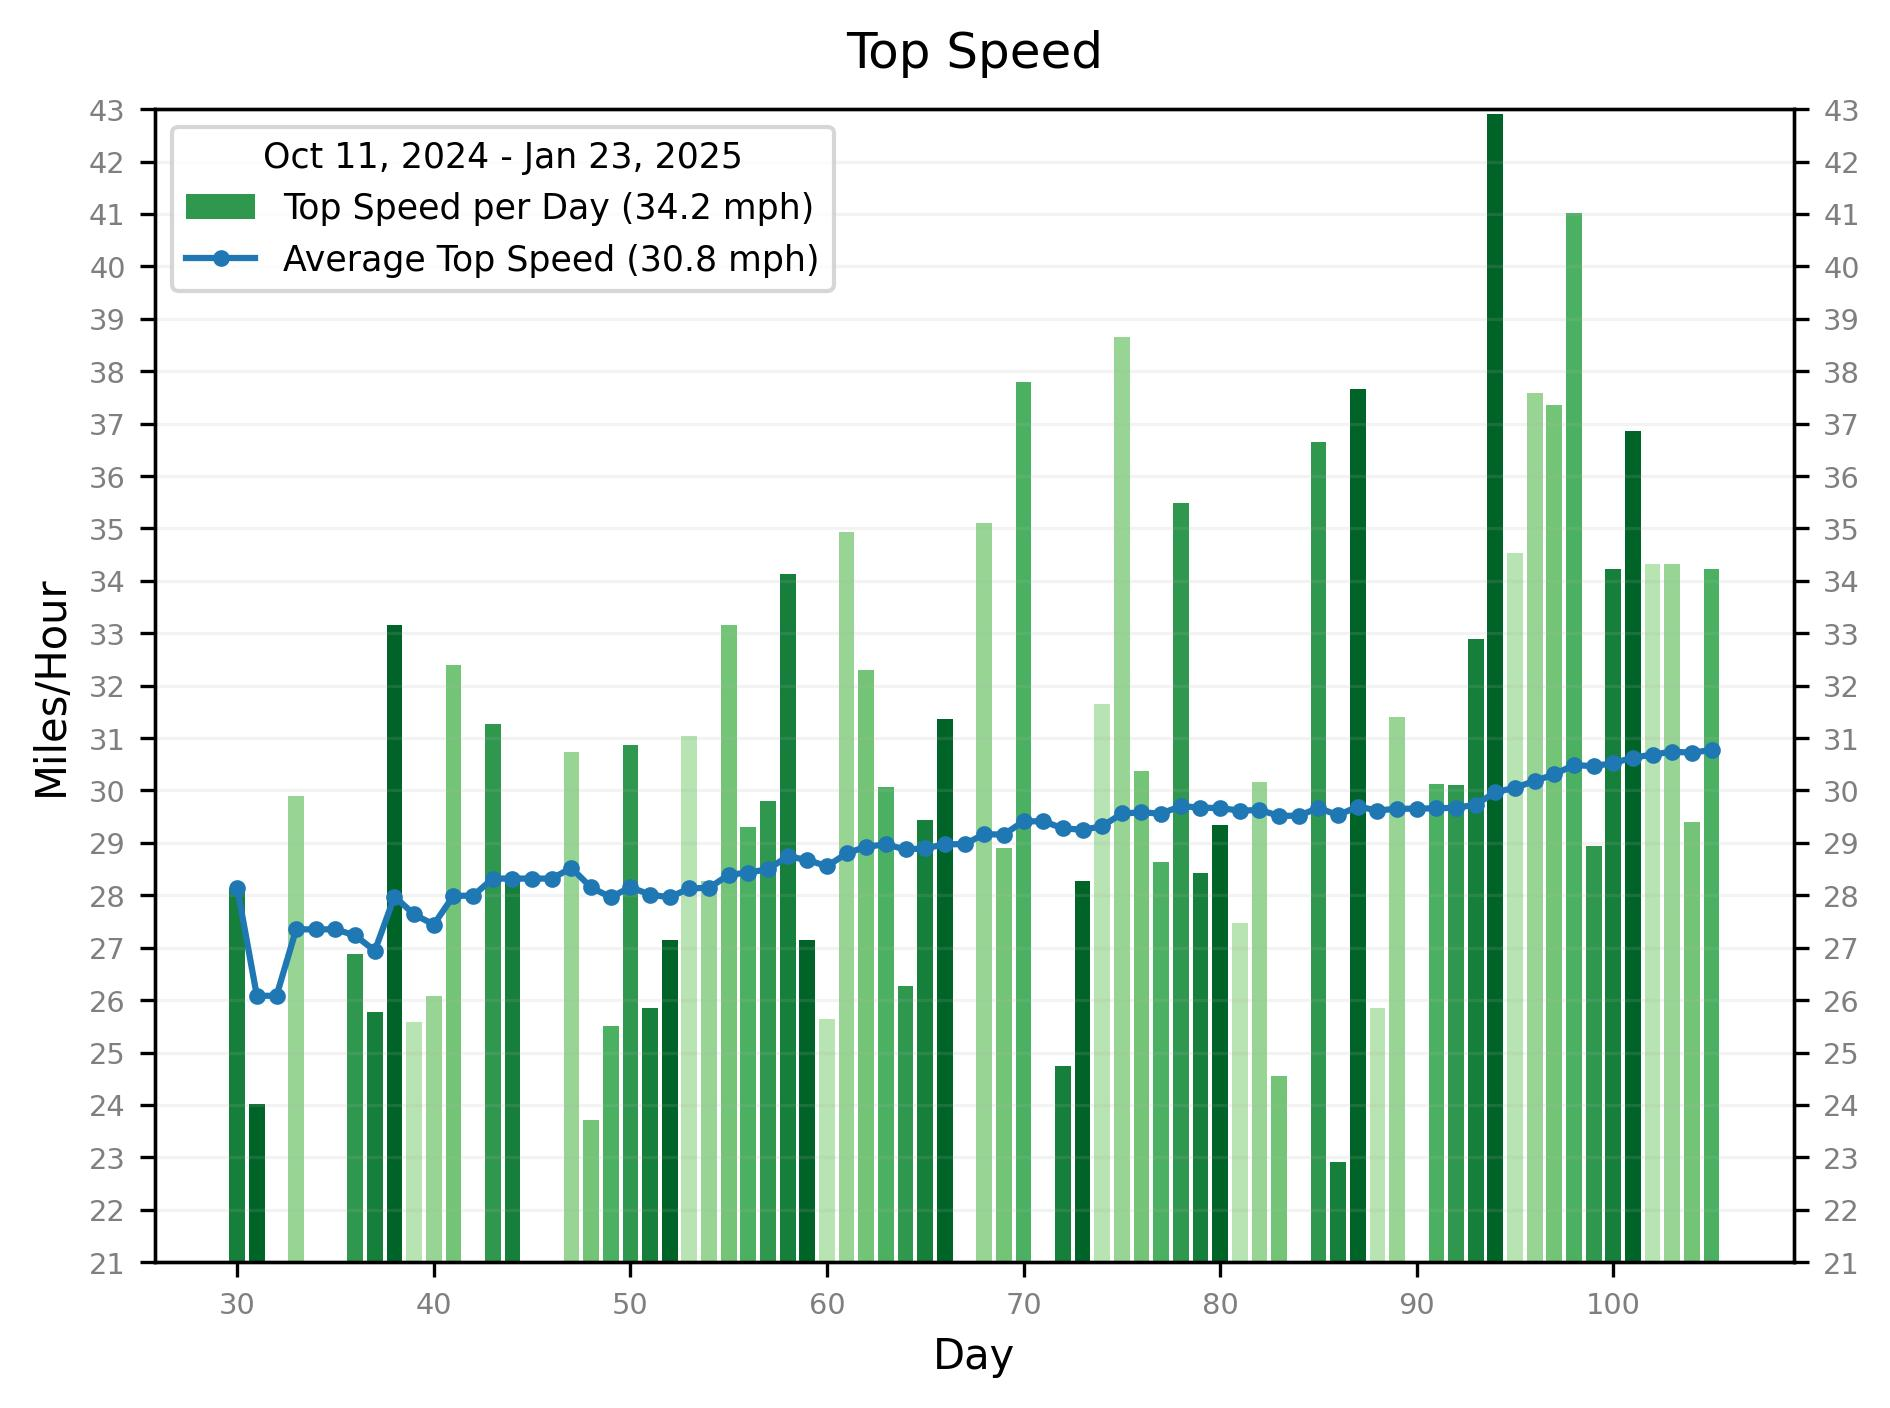
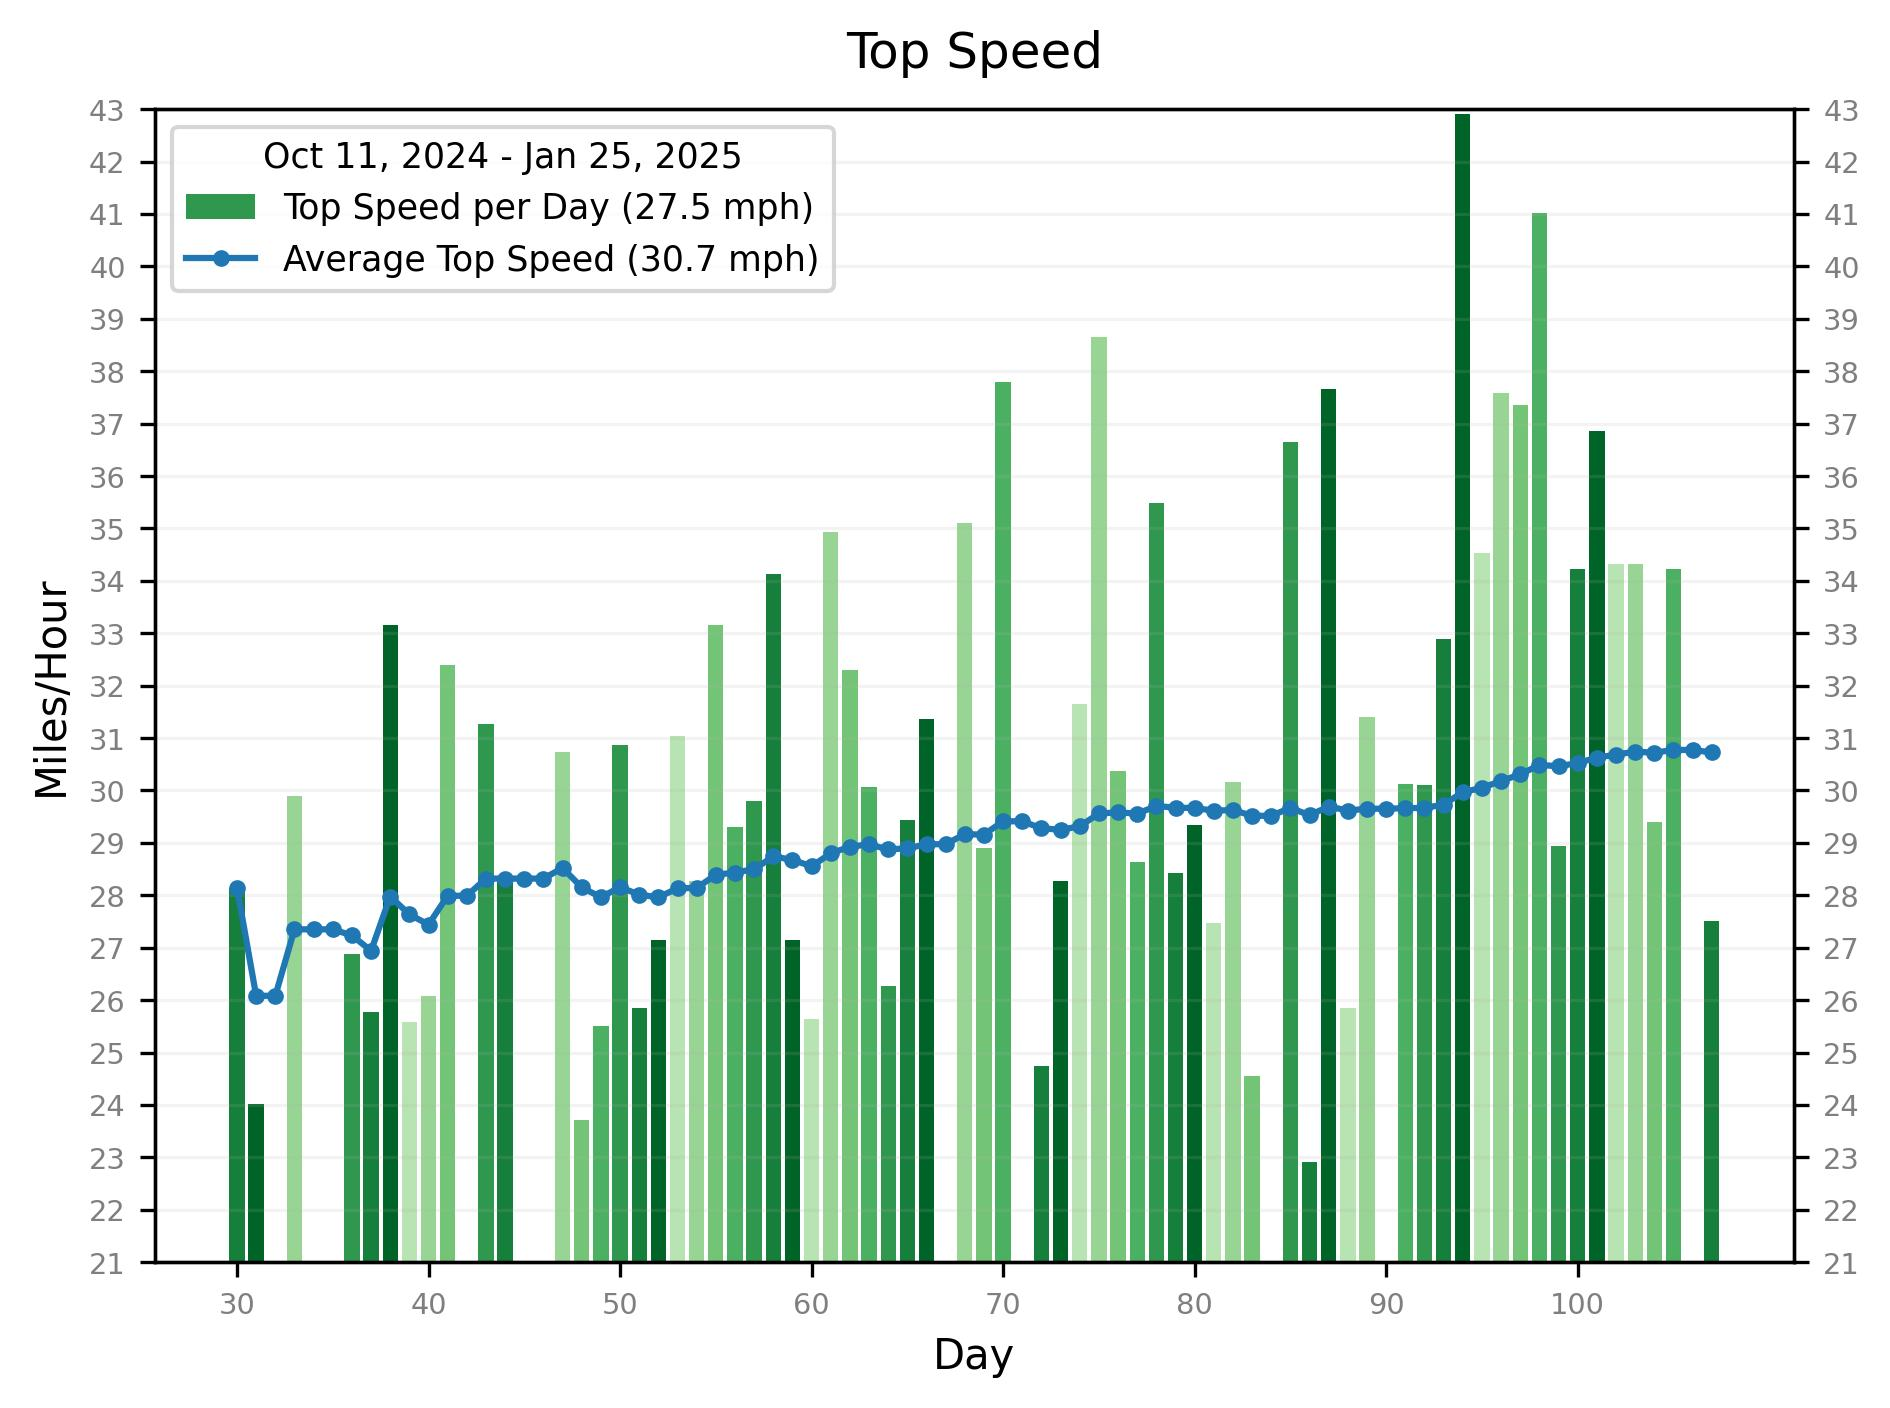
publish updates

Changed region(s): [[0.1249, 0.0625, 0.9365, 0.9375], [0.3434, 0.125, 0.3746, 0.1562]]

diff --git a/docs/console.html b/docs/console.html
@@ -1,27 +1,27 @@
 <pre>
-Date range: 2024-10-11 to 2025-01-23
+Date range: 2024-10-11 to 2025-01-25
 
 days  total  biked  tracked  skipped  ride rate
       -----  -----  -------  -------  ---------
-        105     96     66        9     91.43%
+        107     97     67       10     90.65%
 
 distance (miles)  min   max   avg   total
                   ----  ----  ----  -------
-                   6.9  31.4  15.5   1489.6
+                   6.9  31.4  15.5   1504.0
 
 speed (mph)  min   max   avg
              ----  ----  ----
-              9.1  14.5  11.4
+              8.4  14.5  11.4
 
 top speed (mph)  min   max   avg
                  ----  ----  ----
-                 22.9  42.9  30.8
+                 22.9  42.9  30.7
 
 elevation gain (ft)  min   max   avg   total    total miles
                      ----  ----  ----  -------  -----------
-                      287  2212   848    55987         10.6
+                      287  2212   863    57880         11.0
 
 elevation range (ft)  low:  min   max   avg   high:  min   max   avg
                             ----  ----  ----         ----  ----  ----
-                             17   329   144           390  1088   576
+                             17   329   147           390  1211   585
 </pre>
